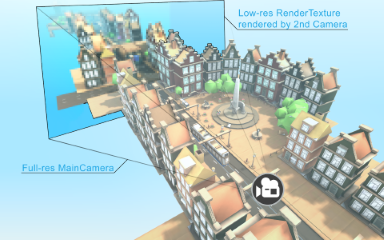
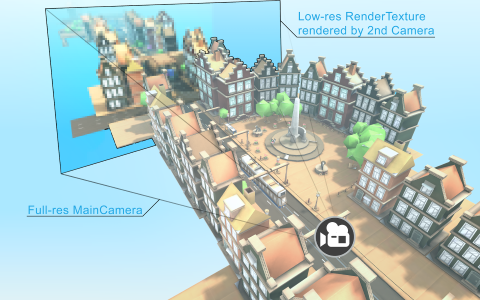
Commiting Files

diff --git a/Graphics/LevelOfDetail.md b/Graphics/LevelOfDetail.md
@@ -65,7 +65,7 @@ De twee camera's in Unity zullen gebruik maken van layers om te bepalen welke ob
 instellen dat bijvoorbeeld plantjes en kleine stukjes gras niet te zien zijn op de 2e camera aangezien je ze toch bijna niet ziet. Hierdoor hoef 
 je deze objecten niet te renderen wat weer zorgd voor meer framerate.
 
-![Visualisatie Low Detail Camera](/Afbeeldingen/LOD_lod2_scherm.png)  
+![Visualisatie Low Detail Camera](/Afbeeldingen/LOD_LowDetailCamera.png)  
 
 Door gebruik van dit systeem hoeven geen LOD modellen gemaakt te worden. Dit is voor games op mobiel extra interessant aangezien je op mobiel 
 vaak voor je originele modellen ook al weinig polygonen gebruikt en een LOD model weinig toevoegd. 
